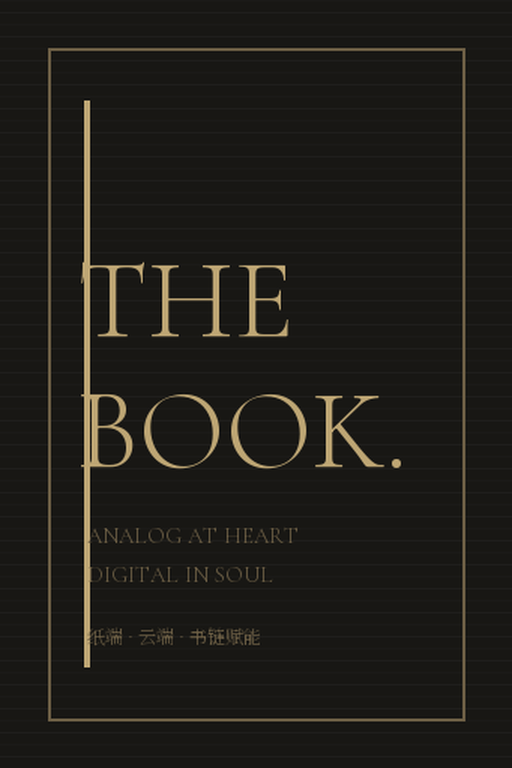
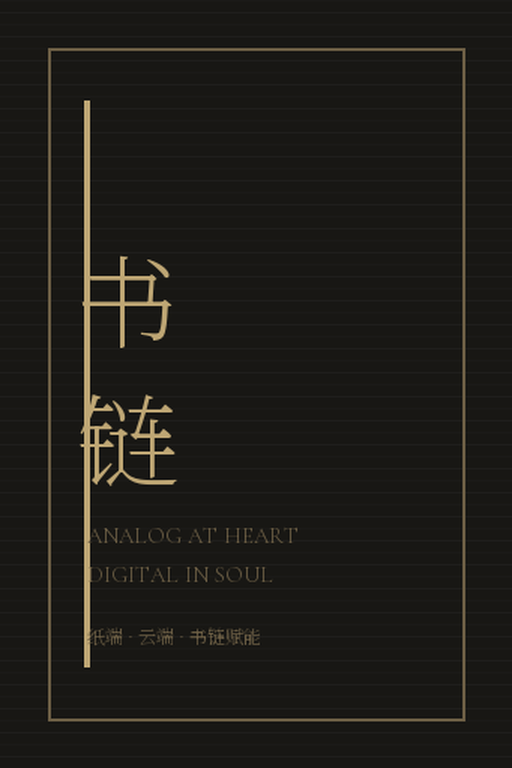
Refactor code structure for improved readability and maintainability

diff --git a/docs/design/lesson-preview.html b/docs/design/lesson-preview.html
@@ -3,7 +3,7 @@
 <head>
   <meta charset="utf-8" />
   <meta name="viewport" content="width=device-width, initial-scale=1" />
-  <title>Bookln / THE BOOK. — lesson preview</title>
+  <title>Bookln / 书链 — lesson preview</title>
   <style>
     @font-face {
       font-family: "Cormorant";
@@ -459,7 +459,7 @@
       <img class="brand" src="../../public/brand/bookln-wordmark.svg" alt="bookln" />
       <div class="topmeta">
         <span><b>LESSON PREVIEW</b> / 01</span>
-        <span>THE BOOK. / CONCEPT</span>
+        <span>书链 / CONCEPT</span>
         <span id="timecode">00:00 / 00:15</span>
       </div>
     </header>
@@ -473,7 +473,7 @@
     <section class="scene" data-scene="0">
       <div class="copy">
         <div class="eyebrow" data-reveal>Every physical book, connected</div>
-        <h1 data-reveal>THE <span class="accent">BOOK.</span></h1>
+        <h1 data-reveal>书<span class="accent">链</span></h1>
         <p class="sub" data-reveal>Any book. One code. Into the cloud.<span class="zh">每一本纸书，皆可入云。</span></p>
         <p class="annotation" data-reveal>Bookln connects any physical book to its digital twin — no hardware required.<br />无需硬件 / 一码关联 / 云端永存。</p>
         <div class="metric-row" data-reveal>
@@ -485,7 +485,7 @@
       <div class="visual">
         <div class="visual-inner">
           <div class="orbit"></div>
-          <div class="book-card"><img src="book-cover-art.png" alt="THE BOOK. cover" /></div>
+          <div class="book-card"><img src="book-cover-art.png" alt="书链 cover" /></div>
         </div>
         <span class="scene-tag">00 / ARRIVAL · CLOSED FORM</span>
       </div>
@@ -575,7 +575,7 @@
 
     <section class="end" data-scene="4">
       <img src="../../public/brand/bookln-wordmark.svg" alt="bookln" />
-      <h2>THE BOOK.</h2>
+      <h2>书链</h2>
       <p>Concept preview · 2026 · no audio assets</p>
     </section>
 

diff --git a/docs/design/fallback-poster.html b/docs/design/fallback-poster.html
@@ -3,7 +3,7 @@
 <head>
   <meta charset="utf-8" />
   <meta name="viewport" content="width=device-width, initial-scale=1" />
-  <title>Bookln / THE BOOK. — static poster</title>
+  <title>Bookln / 书链 — static poster</title>
   <style>
     @font-face {
       font-family: "Cormorant";
@@ -301,13 +301,13 @@
   <main class="poster">
     <header class="topline">
       <img class="wordmark" src="../../public/brand/bookln-wordmark.svg" alt="bookln" />
-      <div class="meta">THE BOOK. / Static edition<br />Concept build · 2026-10-27</div>
+      <div class="meta">书链 / Static edition<br />Concept build · 2026-10-27</div>
     </header>
 
     <section class="hero">
       <div class="copy">
         <div class="eyebrow">Every book, connected</div>
-        <h1>THE<span>BOOK.</span></h1>
+        <h1>书<span>链</span></h1>
         <p class="sub">The Zero-Watt Cognitive Engine.<span class="zh">零功耗认知引擎，由书链 Bookln 唤醒。</span></p>
         <p class="annotation">Local by nature. Silent by design. Any physical book, connected to the cloud.<br />纯本地运行 / 零辐射 / 赋予任意实体纸书云端伴读灵魂。</p>
         <div class="metrics">
@@ -331,7 +331,7 @@
     </section>
 
     <footer class="foot">
-      <span>Bookln / THE BOOK. / static fallback poster</span>
+      <span>Bookln / 书链 / static fallback poster</span>
       <span>† Concept claim · validate before launch · no audio assets</span>
     </footer>
   </main>

diff --git a/docs/design/visual-spec.html b/docs/design/visual-spec.html
@@ -3,7 +3,7 @@
 <head>
   <meta charset="utf-8" />
   <meta name="viewport" content="width=device-width, initial-scale=1" />
-  <title>Bookln / THE BOOK. — Visual Spec</title>
+  <title>Bookln / 书链 — Visual Spec</title>
   <style>
     @font-face {
       font-family: "Cormorant";
@@ -331,7 +331,7 @@
 
     <header class="hero">
       <div class="hero-copy">
-        <div class="eyebrow">THE BOOK. / A reading object</div>
+        <div class="eyebrow">书链 / A reading object</div>
         <h1>Analog<span>by nature.</span></h1>
         <p class="hero-sub">A dark, warm, editorial interface for an object that refuses to flicker. <em>Paper first. Signal second.</em></p>
         <div class="hero-meta">

diff --git a/scripts/generate-textures.py b/scripts/generate-textures.py
@@ -98,11 +98,11 @@ def make_basecolor(size: int) -> Image.Image:
     draw.rectangle((x0 + inset, y0 + inset, x1 - inset, y1 - inset), outline=gold_dim, width=max(1, size // 1024))
     # Thin asymmetrical registration frame.
     draw.line((x0 + inset * 1.8, y0 + inset * 2.1, x0 + inset * 1.8, y1 - inset * 2.1), fill=gold, width=max(2, size // 512))
-    title_font = font("CormorantGaramond-Variable.ttf", int((x1 - x0) * 0.22))
+    title_font = font("NotoSerifSC-Variable.ttf", int((x1 - x0) * 0.20))
     micro_font = font("CormorantGaramond-Variable.ttf", int((x1 - x0) * 0.045))
     cn_font = font("NotoSerifSC-Variable.ttf", int((x1 - x0) * 0.038))
-    draw.text((x0 + (x1 - x0) * 0.15, y0 + (y1 - y0) * 0.30), "THE", font=title_font, fill=gold)
-    draw.text((x0 + (x1 - x0) * 0.15, y0 + (y1 - y0) * 0.47), "BOOK.", font=title_font, fill=gold)
+    draw.text((x0 + (x1 - x0) * 0.15, y0 + (y1 - y0) * 0.29), "书", font=title_font, fill=gold)
+    draw.text((x0 + (x1 - x0) * 0.15, y0 + (y1 - y0) * 0.47), "链", font=title_font, fill=gold)
     draw.text((x0 + (x1 - x0) * 0.17, y0 + (y1 - y0) * 0.68), "ANALOG AT HEART", font=micro_font, fill=gold_dim)
     draw.text((x0 + (x1 - x0) * 0.17, y0 + (y1 - y0) * 0.73), "DIGITAL IN SOUL", font=micro_font, fill=gold_dim)
     draw.text((x0 + (x1 - x0) * 0.17, y0 + (y1 - y0) * 0.81), "纸端 · 云端 · 书链赋能", font=cn_font, fill=gold_dim)
@@ -118,8 +118,8 @@ def make_basecolor(size: int) -> Image.Image:
     # Spine foil.
     sx0, sy0, sx1, sy1 = face_px(size, REGIONS["spine"], "front")
     draw.rectangle((sx0, sy0, sx1, sy1), fill=(27, 25, 21))
-    spine_font = font("CormorantGaramond-Variable.ttf", max(10, int((sx1 - sx0) * 0.30)))
-    draw.text((sx0 + (sx1 - sx0) * 0.24, sy0 + (sy1 - sy0) * 0.73), "THE BOOK.", font=spine_font, fill=gold)
+    spine_font = font("NotoSerifSC-Variable.ttf", max(10, int((sx1 - sx0) * 0.30)))
+    draw.text((sx0 + (sx1 - sx0) * 0.24, sy0 + (sy1 - sy0) * 0.73), "书链", font=spine_font, fill=gold)
     draw.line((sx0 + (sx1 - sx0) * 0.45, sy0 + (sy1 - sy0) * 0.12, sx0 + (sx1 - sx0) * 0.45, sy0 + (sy1 - sy0) * 0.65), fill=gold_dim, width=max(1, size // 1024))
 
     # Page faces: warm paper, registration rules and sparse text lines.

diff --git a/docs/assets.md b/docs/assets.md
@@ -62,7 +62,7 @@
 - **分辨率**：桌面端 2048×2048，移动端回退 1024×1024。
 - **格式**：KTX2 / Basis Universal，保持压缩态直接入显存。
 - **命名**：`book-basecolor.ktx2`、`book-normal.ktx2`、`book-roughness.ktx2`、`book-metalness.ktx2`、`book-ao.ktx2`。
-- **运行时消费**：`book-transformed.glb` 内嵌的 KTX2 PBR 图集由 `KTX2Loader` 直接解码，`BookScene` 保留 Normal / AO / Roughness / Metalness 通道。由于当前 GLB 内嵌的 BaseColor 仍为旧版 `CODEX` 图集，运行时用 `book-basecolor.webp`（当前 `THE BOOK.` 图集，2048²，36 KB，由源 PNG 转出）仅覆盖 BaseColor；待 GLB 按最新源图重建后，可移除该覆盖。
+- **运行时消费**：`book-transformed.glb` 内嵌的 KTX2 PBR 图集由 `KTX2Loader` 直接解码，`BookScene` 保留 Normal / AO / Roughness / Metalness 通道。由于当前 GLB 内嵌的 BaseColor 仍为旧版 `CODEX` 图集，运行时用 `book-basecolor.webp`（当前 `书链` 图集，2048²，36 KB，由源 PNG 转出）仅覆盖 BaseColor；待 GLB 按最新源图重建后，可移除该覆盖。
 - **WebP 覆盖层重建**：`cwebp -q 90 public/textures/source/book-basecolor.png -o public/textures/book-basecolor.webp`
 
 ### A3 函套模型
